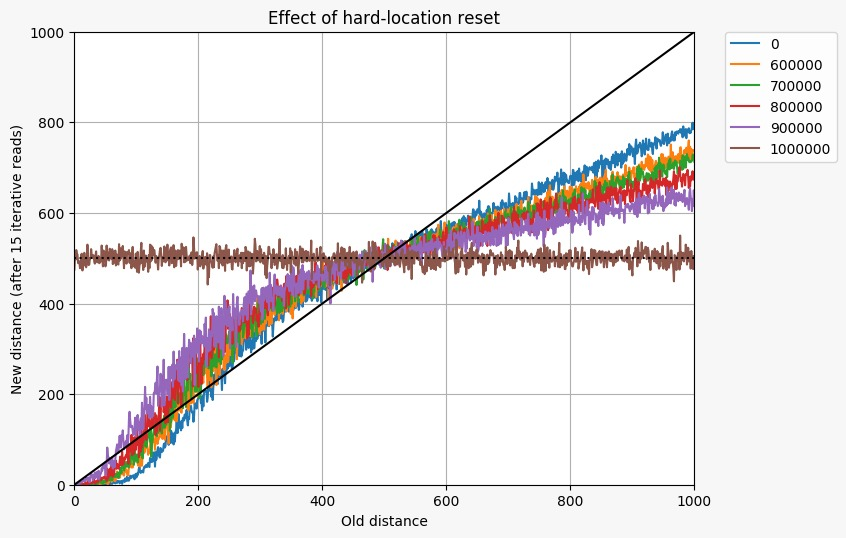
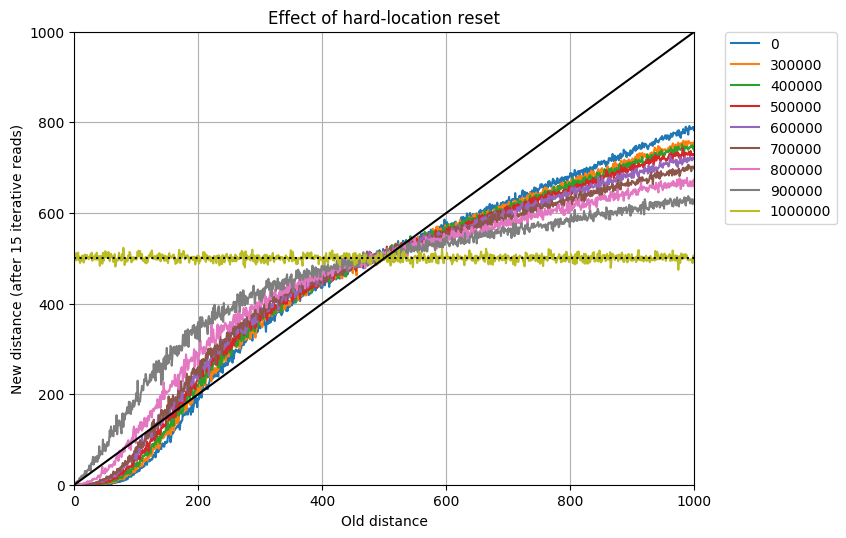
SDM Loss of neurons

Changed region(s): [[0.0922, 0.2082, 0.8298, 0.9219], [0.8605, 0.2677, 0.9835, 0.4164], [0.8605, 0.0892, 0.9835, 0.2082]]

diff --git a/Chapters/Chapter02.tex b/Chapters/Chapter02.tex
@@ -304,7 +304,7 @@ Our results show that the theoretical prediction is not accurate.  There are int
 
 Obviously, these small deviations from Kanerva's original theoretical predictions deserve a qualification.  Kanerva was working in the 1980s and the 1990s, and had no access to the immense computational power that we do today. It is no surprise that some small interaction effects should exist as machines allow us to explore the ideas of his monumental work.
 
-But, when we reduced the number of random bitstrings written in the SDM from 10,000 to only 100, the results reflected very well the Kanerva's theoretical expectation (Figure \ref{fig:sdm-100w-table-7-2-10samples}). This result strengthens our hypothesis that the disparities in the computational results are due to the interaction effect of high numbers of different attractors. In Figure \ref{fig:sdm-table-7-2-steps} we can notice that, the more random bitstrings are written, the stronger the attractots.
+But, when we reduced the number of random bitstrings written in the SDM from 10,000 to only 100, the results reflected very well the Kanerva's theoretical expectation (Figure \ref{fig:sdm-100w-table-7-2-10samples}). This result strengthens our hypothesis that the disparities in the computational results are due to the interaction effect of high numbers of different attractors. In Figure \ref{fig:sdm-table-7-2-steps} we can notice that, the more random bitstrings are written, the stronger the attractors.
 
 \begin{figure}[h]
 \centering
@@ -338,36 +338,56 @@ Hence, our understanding is that the attractors are just preventing the bitstrin
 
 \chapter{Results (ii): Loss of neurons}
 
-In SDM, the data is written distributed among millions of hard-locations, which gives SDM robustness against loss of neurons. In other words, SDM should keep convering correctly even when some neurons are dead. The question is: how robust it really is? How many neurons may die before it starts to forget things.
+In SDM, the data is written distributed among millions of hard-locations, which theoretically gives SDM robustness against loss of neurons. In other words, SDM should keep convering correctly even when some neurons are dead. The question is: how robust it really is? How many neurons may die before it starts to forget things. These questions have never been addresses before.
 
-Looking for answers to those questions, we run a simulation in which we kept killing some neurons and checking whether SDM remained converging to a given bitstring. In this simulation, 10,000 random bitstrings were written to a 1,000-bit SDM.
+Looking for answers to these questions, we run simulations in which we kept killing some neurons and checking whether SDM remained converging to a given bitstring or not. In these simulations, 10,000 random bitstrings were written to a 1,000-bit SDM with 1,000,000 hard-locations, and we choose one of them as our target. As the bitstrings were all written exactly once, we may generalize the results. The code is available in the ``Reseting hard-locations'' notebook \citep{sdmframework}.
 
-When we say that we killed a neuron, it means that its hard-location's counters have been zeroed and a new random bitstring address has been given to its hard-location. As no other bitstring is written into the memory, it is exactly like ignoring this hard-location in the next reading operations, i.e., the hard-location does not affect the next reading.
+As neurons are hard-locations in SDM, when we say that a neuron has been killed, we mean that its counters have been zeroed and a new random bitstring address has been assigned. During our simulations, no other bitstring has been written after the 10,000. Consequently, as their counters willl remain zeroed, it is exactly like ignoring the dead hard-locations in the subsequent reading operations.
 
-In Figure \ref{fig:sdm-neuron-death-50k}, we can notice that SDM is absolutely robust up to 50,000 neuron deaths which is 5\% of the all hard-locations.
-
-\begin{figure}[h]
-\centering\includegraphics[width=\textwidth]{./images02/new-images/sdm-neuron-death-50k.png}
-\caption{This graph shows the SDM's robustness against loss of neurons. It shows from 0 to 50,000 neuron deaths.
-\label{fig:sdm-neuron-death-50k}}
+\begin{figure}[!p]
+\centering\includegraphics[width=\textwidth]{./images02/new-images/sdm-neuron-death-200k.png}
+\caption{This graph shows the SDM's robustness against loss of neurons in a SDM with $n=1,000$ and $H=1,000,000$. It shows that a loss of 200,000 neurons, 20\% of the total, does not affect SDM whatsoever.
+\label{fig:sdm-neuron-death-200k}}
 \end{figure}
 
-In fact, SDM begins to be affected by loss of neurons after 600,000 deaths (Figure \ref{fig:sdm-neuron-death-1m}), and obviously forgets everything when all neurons are dead.
+In Figure \ref{fig:sdm-neuron-death-200k}, we can notice that SDM is absolutely robust up to 200,000 neuron deaths which is 20\% of all hard-locations. This result is pretty impressive and really surprised us.
 
-It is interesting that 500,000 deaths have almost no effect in SDM's recall. It is analogous to do an hemispherectomy in a person and, after the procedure, the person is able to recall exactly like before.
+In fact, SDM begins to be significantly affected by loss of neurons after 600,000 neuron deaths (Figure \ref{fig:sdm-neuron-death-1m}), and obviously forgets everything when all neurons are dead.
 
-\begin{figure}[h]
+\begin{figure}[!p]
 \centering\includegraphics[width=\textwidth]{./images02/new-images/sdm-neuron-death-1m.png}
-\caption{This graph shows the SDM's robustness against loss of neurons.
+\caption{This graph shows the SDM's robustness against loss of neurons in a SDM with $n=1,000$ and $H=1,000,000$. The more neurons are death, the smaller the critical distance, i.e., the worse the SDM recall.
 \label{fig:sdm-neuron-death-1m}}
 \end{figure}
 
-Although there is some decrease in SDM after 600,000, it is curious that there is a sudden change between 900,000 (90\%) and 1,000,000 (100\%). In Figure \ref{fig:sdm-neuron-death-details} we can see the details of this non-linear change.
+It is interesting that 500,000 neuron deaths has a minor effect in SDM's recall capability (see Figure \ref{fig:sdm-neuron-death-500k}). It is analogous to do an hemispherectomy in a person and, after the procedure, the person is able to recall and learn almost just like before. In fact, there are clinical reports of children submitted to hemispherectomy who live an almost normal life with minor motor problems.
 
-\begin{figure}[h]
+\begin{figure}[!p]
+\centering\includegraphics[width=\textwidth]{./images02/new-images/sdm-neuron-death-500k.png}
+\caption{This graph shows the SDM's robustness against loss of neurons in a SDM with $n=1,000$ and $H=1,000,000$. Even when 50\% of neurons are dead, SDM recall is barely affected, which is an impressive result and matches with some clinical results of children submitted to hemispherectomy.
+\label{fig:sdm-neuron-death-500k}}
+\end{figure}
+
+An important observation is that around 800,000 neuron deaths (80\% of all neurons) the critical distance is really small, i.e., SDM recall capacity is very diminished. After 900,000 neuron deaths the critical distance is zero. In this case, everything has been forgot.
+
+Although there is some decrease in SDM recall after 600,000 neuron deaths, it is curious that there is a sudden change between 900,000 (90\%) and 1,000,000 (100\%). In Figure \ref{fig:sdm-neuron-death-details} we can see the details of this non-linear change. Notice that after 950,000 even the exact clue $\eta_0$ does not converge to $\eta$.
+
+\begin{figure}[!p]
 \centering\includegraphics[width=\textwidth]{images02/new-images/sdm-neuron-death.png}
-\caption{This graph shows the SDM's robustness against loss of neurons. In each color, a given amount of neurons have been killed.
+\caption{This graph shows the SDM's robustness against loss of neurons in a SDM with $n=1,000$ and $H=1,000,000$.
 \label{fig:sdm-neuron-death-details}}
+\end{figure}
+
+We run exactly the same simulation for a 256-bit SDM with 1,000,000 hard-locations. The results were even more surprising, because the 256-bit SDM was more robust to loss of neuron than the 1,000-bit SDM (see Figure \ref{fig:sdm-neuron-death-256bits}). Notice that the loss of 50\% of neurons barely affected the 256-bit SDM which remained functional even facing an enormous loss of 90\% of neurons.
+
+\begin{figure}[!p]
+\centering
+\subfloat[Up to 500,000 neuron deaths ]{\includegraphics[width=\textwidth]{images02/new-images/sdm-neuron-death-256-500k.png}}
+
+\subfloat[From 600,000 to 1,000,000 neuron deaths ]{\includegraphics[width=\textwidth]{images02/new-images/sdm-neuron-death-256-1m.png}}
+
+\caption{This graph shows the SDM's robustness against loss of neurons in a SDM with $n=256$ and $H=1,000,000$.
+\label{fig:sdm-neuron-death-256bits}}
 \end{figure}
 
 
